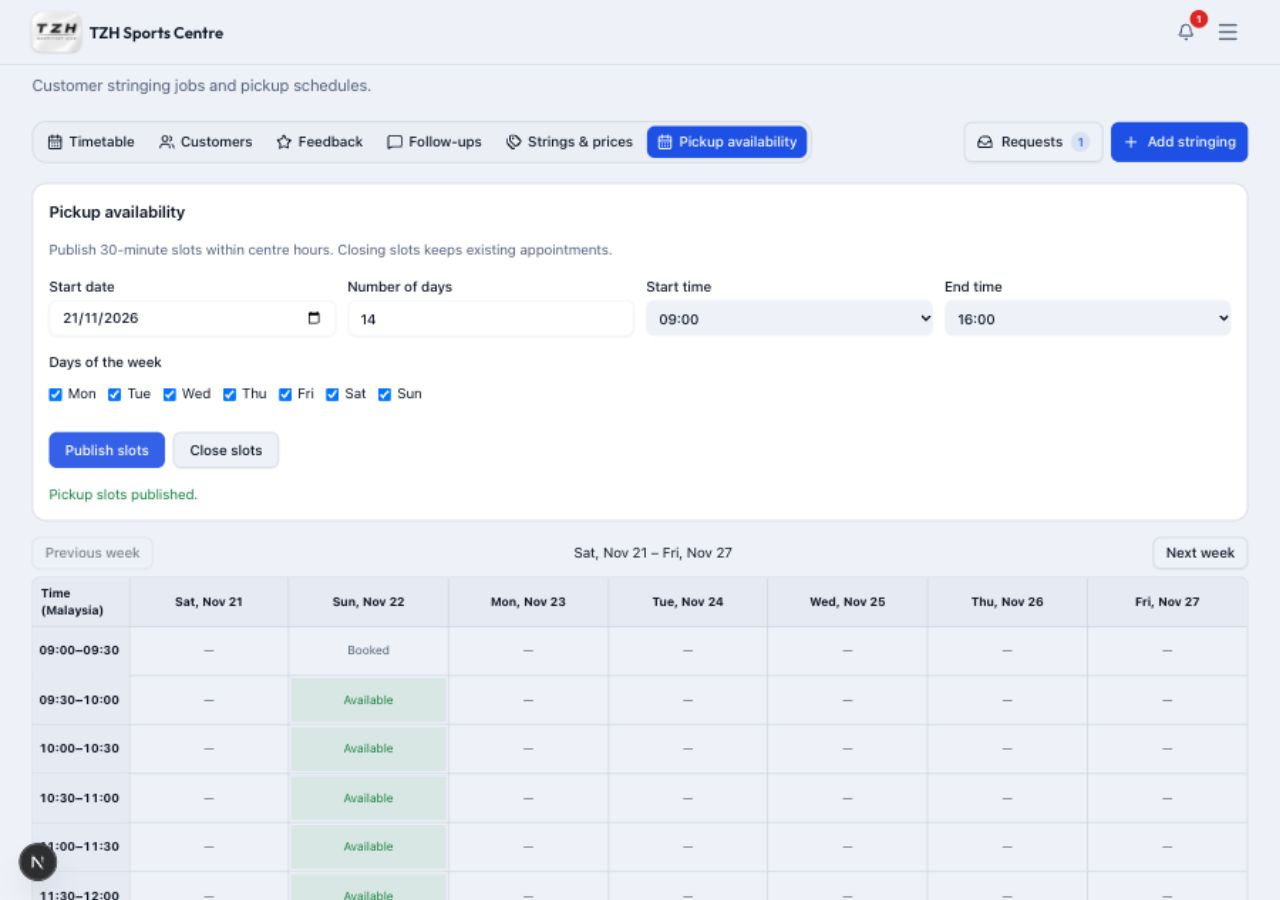
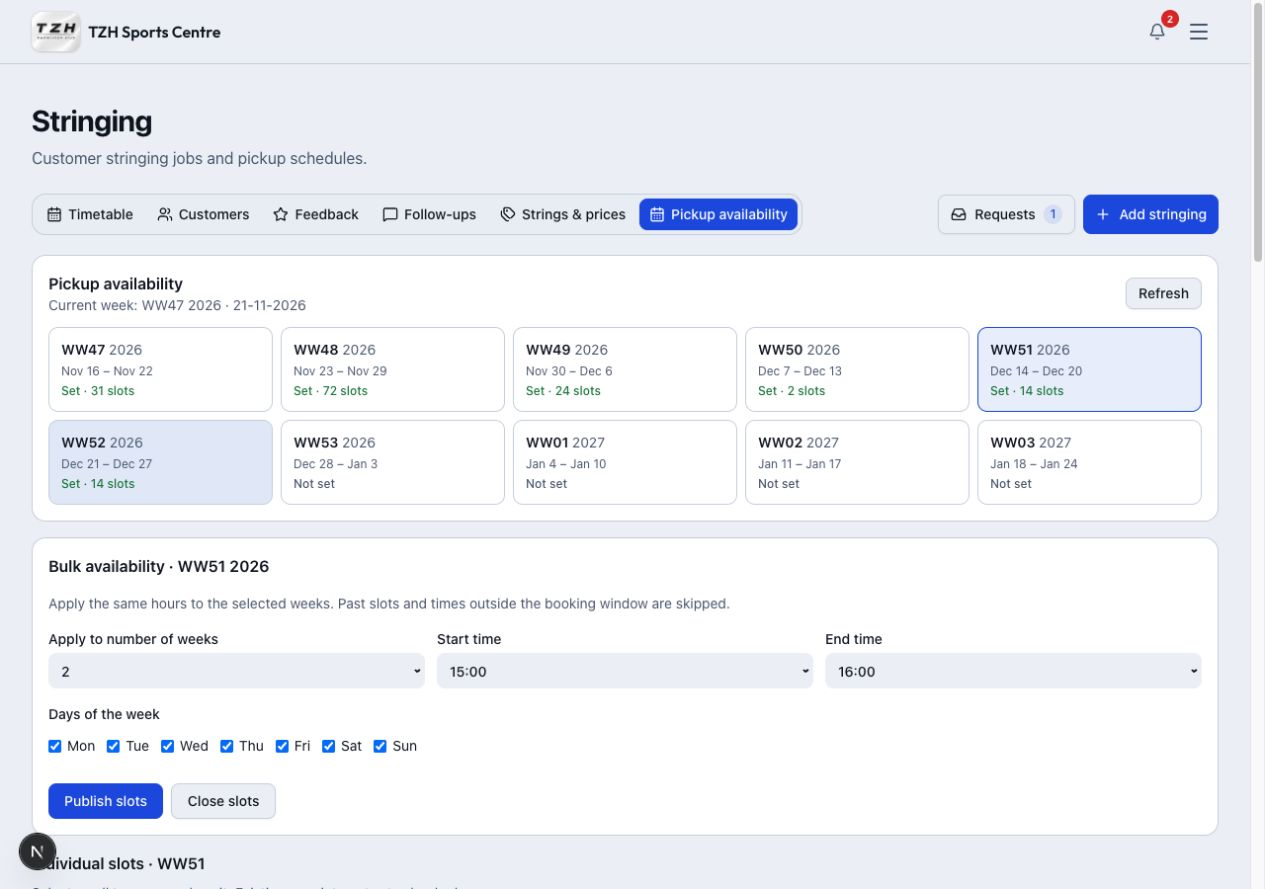
docs: show weekly stringing availability and cell controls

diff --git a/website/stringing.md b/website/stringing.md
@@ -19,9 +19,15 @@ For a complete example, follow [one customer visit from request through collecti
 <details>
 <summary><strong>Publish pickup availability</strong></summary>
 
-**Admin → Stringing → Pickup availability.** Set the start date, number of days, weekdays and hours. Use **7** days for one week or **14** for two, then select **Publish slots**. Check the grid and use **Next week** to see later dates. Staff and members can choose from the same 30-minute slots. Enter the range and select **Close slots** to stop new reservations in it. Existing pickups stay on the timetable. For same-day stringing, publish a slot on the drop-off date. The customer should bring the racket by the start of their slot.
+**Admin → Stringing → Pickup availability.** The page shows today's date and current week number. Choose a **WW** card. **Not set** means the week has no upcoming published slots. A **Set** card shows how many slots are published.
 
-![Publishing two weeks of pickup slots](../images/stringing/pickup-availability-grid.jpg)
+Under **Bulk availability**, choose how many weeks to update, starting with the selected week. Set the weekdays and hours, then select **Publish slots**. Use **Close slots** to withdraw matching slots. Times that have passed are skipped.
+
+![Publishing availability across two numbered weeks](../images/stringing/pickup-availability-grid.jpg)
+
+Under **Individual slots**, select a cell to open or close that one slot. On a phone, swipe the table sideways to reach later days. **Closed · booked** means the slot is closed to new requests and the existing appointment stays booked.
+
+![A closed slot with its booking preserved](../images/stringing/pickup-availability-cell-mobile.jpg)
 
 To free a slot early, choose **Ready for pickup → Confirm change** on the completed racket. An upcoming slot reopens for another stringing request. The original customer's pickup time stays on their job.
 

diff --git a/changelog/2026-11-16.md b/changelog/2026-11-16.md
@@ -25,3 +25,5 @@
 - [Use published slots for same-day stringing](../website/customer-stringing.md). Awaiting deployment.
 
 - [Choose a drop-off date and see the opening hours for that day](../website/customer-stringing.md). Awaiting deployment.
+
+- [Set stringing availability by week number or change one slot](../website/stringing.md). Awaiting deployment.
